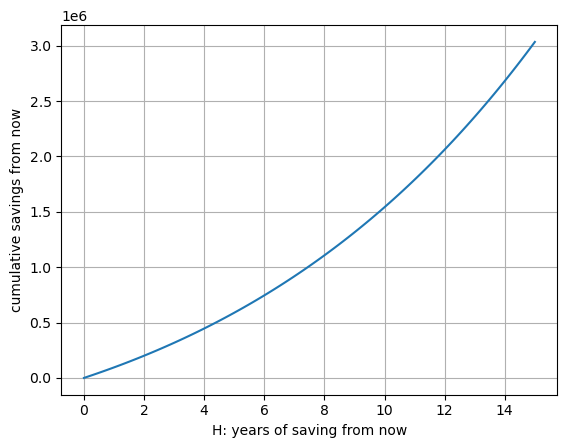
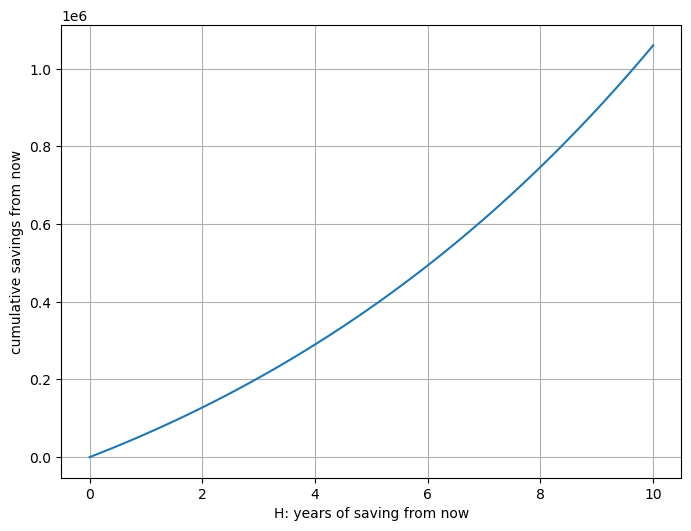
deploy: 4488496956ce40f71c227d4cffd5095ab1da6866

diff --git a/savings/app.js b/savings/app.js
@@ -1,4 +1,4 @@
-function savings(nYears, roi, savingsIncrease, annualSavings, savingsGoal) {
+function savings(nYears, roi, savingsIncrease, annualSavings) {
   const fraction = Math.pow((1 + savingsIncrease) / (1 + roi), nYears);
   return (
     (annualSavings * Math.pow(1 + roi, nYears) * (1 - fraction)) /
@@ -11,7 +11,7 @@ function savingsDerivative(nYears, roi, savingsIncrease, annualSavings) {
 }
 
 function cumulativeSpending(nYears, roi, extraSpending) {
-  return extraSpending * (1 + Math.pow(1 - roi, nYears + 1) / (1 - roi));
+    return extraSpending * Math.pow((1 + roi), nYears)
 }
 
 function totalRoot(
@@ -23,7 +23,7 @@ function totalRoot(
   extraSpending
 ) {
   return (
-    savings(nYears, roi, savingsIncrease, annualSavings, savingsGoal) -
+    savings(nYears, roi, savingsIncrease, annualSavings) -
     cumulativeSpending(nYears, roi, extraSpending) -
     savingsGoal
   );
@@ -47,8 +47,6 @@ function newtonRaphson(f, fDer, x0, nIter) {
   for (let i = 0; i < nIter; i++) {
     const y = f(x);
     const dy = fDer(x);
-    console.log(y);
-    console.log(dy);
     x = x - y / dy;
   }
   return x;
@@ -63,12 +61,94 @@ function readFields() {
     savingsGoal: readField("savings-goal"),
     roi: readField("roi"),
     annualSavings: readField("annual-savings"),
-    savingsIncrease: readField("savings-increase"),
+      savingsIncrease: readField("savings-increase"),
+      annualSpending: readField("annual-spending")
   };
 }
 
-function calculateYears() {
-  const nIter = 100;
+function savingsBreak(
+  nYears,
+  roi,
+  savingsIncrease,
+    annualSavings,
+    annualSpending,
+    durationBreak,
+    timeOfBreak,
+) {
+    const hFirst = timeOfBreak;
+    const hSecond = nYears - timeOfBreak - durationBreak;
+    const preBreakSavings = savings(hFirst, roi, savingsIncrease, annualSavings);
+    const costOfLiving = cumulativeSpending(hSecond, roi, annualSpending * durationBreak);
+    const passiveIncome = cumulativeSpending(hSecond + durationBreak, roi, preBreakSavings) - preBreakSavings;
+    const newAnnualSavings = cumulativeSpending(hFirst, savingsIncrease, annualSavings);
+    const postBreakSavings = savings(hSecond, roi, savingsIncrease, newAnnualSavings);
+    return preBreakSavings + passiveIncome - costOfLiving + postBreakSavings;
+}
+
+function savingsBreakDer(
+  nYears,
+  roi,
+  savingsIncrease,
+    annualSavings,
+    annualSpending,
+    durationBreak,
+    timeOfBreak,
+) {
+    const hFirst = timeOfBreak;
+    const hSecond = nYears - timeOfBreak - durationBreak;
+    const newAnnualSavings = cumulativeSpending(hFirst, savingsIncrease, annualSavings);
+    const costOfLivingDer = cumulativeSpending(hSecond, roi, annualSpending);
+    const postBreakSavingsDer = - savings(hSecond, roi, savingsIncrease, newAnnualSavings);
+    return costOfLivingDer + postBreakSavingsDer
+}
+
+function findBreakDuration(nYears, timeOfBreak, nIter) {
+    fields = readFields();
+    const f = (x) =>
+	  savings(nYears, fields.roi, fields.savingsIncrease, fields.annualSavings)
+	  - savingsBreak(
+	      nYears,
+	      fields.roi,
+	      fields.savingsIncrease,
+	      fields.annualSavings,
+	      fields.annualSpending,
+	      x,
+	      timeOfBreak,
+	  )
+	  - cumulativeSpending(nYears, fields.roi, 100)
+    const fDer = (x) =>
+	  - savingsBreakDer(
+	      nYears,
+	      fields.roi,
+	      fields.savingsIncrease,
+	      fields.annualSavings,
+	      fields.annualSpending,
+	      x,
+	      timeOfBreak,
+	  )
+    const x0 = 1/365;
+    const result = newtonRaphson(f, fDer, x0, nIter);
+    return result
+}
+
+function setupSlider(nYears) {
+    const timeSlider = document.getElementById("time-slider");
+    timeSlider.min = 0;
+    timeSlider.max = nYears;
+    timeSlider.value = nYears / 2;
+    const update = function() {
+	const timeSlider = document.getElementById("time-slider");
+	const timeOfBreak = parseInt(timeSlider.value)
+	const breakDuration = findBreakDuration(nYears, timeOfBreak, 100)
+	const breakDurationText = (breakDuration * 365).toFixed(2);
+	const resultString = `You may take a break of ${breakDurationText} days after ${timeSlider.value} years while still hitting your savings goal.`;
+	document.getElementById("result-break").textContent = `${resultString}`;
+    }
+    update()
+    timeSlider.oninput = update
+}
+
+function findSavingsDuration(nIter) {
   fields = readFields();
   const f = (x) =>
     totalRoot(
@@ -87,12 +167,10 @@ function calculateYears() {
       fields.annualSavings
     );
   const x0 = fields.savingsGoal / fields.annualSavings;
-  const result = newtonRaphson(f, fDer, x0, nIter);
-  const resultTextDuration = `It would take approximately ${result.toFixed(
-    2
-  )} years to hit your savings goal.`;
-  document.getElementById("result-duration").textContent = resultTextDuration;
+  return newtonRaphson(f, fDer, x0, nIter);
+}
 
+function findSavingsExtraDuration(nYears, extraSpending, nIter) {
   const fTotal = (x) =>
     totalRoot(
       x,
@@ -100,7 +178,7 @@ function calculateYears() {
       fields.savingsIncrease,
       fields.annualSavings,
       fields.savingsGoal,
-      100
+      extraSpending
     );
   const fTotalDer = (x) =>
     totalDerivative(
@@ -108,13 +186,26 @@ function calculateYears() {
       fields.roi,
       fields.savingsIncrease,
       fields.annualSavings,
-      100
+      extraSpending
     );
+  return newtonRaphson(fTotal, fTotalDer, nYears, nIter);
+}
 
-  const resultEpsilon = newtonRaphson(fTotal, fTotalDer, result, nIter);
-  const resultDays = ((resultEpsilon - result) * 365).toFixed(2);
-  const resultTextMoney = `Spending 100 of your monetary currency right now will cost you approximately ${resultDays} days.`;
-  console.log(resultEpsilon);
-  console.log(fTotal(8));
-  document.getElementById("result-money").textContent = resultTextMoney;
+function calculate() {
+    const nIter = 100;
+
+    const nYears = findSavingsDuration(nIter)
+    const nYearsText = `It will take approximately ${nYears.toFixed(
+      2
+    )} years to hit your savings goal.`;
+    document.getElementById("result-duration").textContent = nYearsText;
+
+    const nYearsExtra = findSavingsExtraDuration(nYears, 100, nIter)
+    const nDaysExtra = ((nYearsExtra - nYears) * 365).toFixed(2);
+    const nDaysExtraText = `Spending an extra 100 of your monetary currency right now will delay reaching your savings goal, i.e. 'cost you', approximately ${nDaysExtra} days.`;
+    document.getElementById("result-money").textContent = nDaysExtraText;
+
+    setupSlider(nYears)
+
+    document.getElementById("results").hidden = false;
 }

diff --git a/savings/index.html b/savings/index.html
@@ -7,7 +7,7 @@
       .outer {
         padding: 50px;
         margin: 20px;
-        border: 10px solid green;
+        border: 7px solid green;
       }
       .inner {
         padding: 10px;
@@ -15,6 +15,11 @@
       }
       .explanation {
         color: grey;
+      }
+      .result {
+	  padding: 10px;
+	  margin: 10px 0 10px 0;
+	  border: 7px solid green;
       }
     </style>
   </head>
@@ -27,16 +32,16 @@
         <label class="explanation">
           Representing remaining savings to be made, i.e. savings up to now are
           disregarded. A typical value could be annual spending divided by
-	  annual return on investment (roi).
+	  annual return on investment (roi) minus current savings.
         </label>
       </div>
       <div class="inner">
-        <label for="annual_savings">Annual savings:</label>
+        <label for="annual-savings">Annual savings:</label>
         <input type="number" id="annual-savings" value="60000" /><br />
         <label class="explanation">In the next year</label>
       </div>
       <div class="inner">
-        <label for="savings_increase">Annual savings increase:</label>
+        <label for="savings-increase">Annual savings increase:</label>
         <input type="number" id="savings-increase" value=".08" /><br />
         <label class="explanation">
 	  Relative to previous year, assumed to be constant for all coming
@@ -52,13 +57,35 @@
         </label>
       </div>
       <div class="inner">
-        <button onclick="calculateYears()">Calculate</button><br /><br />
+        <label for="annual-spending">Annual spending:</label>
+        <input type="number" id="annual-spending" value="50000" /> <br />
+        <label class="explanation">
+          Under the assumption that this doesn't change over the years.
+        </label>
       </div>
       <div class="inner">
-        <p id="result-duration"></p>
-        <p id="result-money"></p>
+        <button onclick="calculate()">Calculate</button><br /><br />
       </div>
     </div>
+    <div id="results" class="inner" hidden>
+      <div class="inner">
+	<div class="result">
+          <p id="result-duration"></p>
+	</div>
+	<div class="result">
+          <p id="result-money"></p>
+	</div>
+	<div class="result">
+	Let's assume you find 100 of your currency on the street right now. For how long
+	can you take a break from earning money?
+        <div class="slidecontainer">
+	  <input id="time-slider" type="range" min="1" max="100" value="50" class="slider">
+        </div>
+        <p id="result-break"></p>
+	</div>
+      </div>
+    </div>
+          </div>
     <script src="https://cdnjs.cloudflare.com/ajax/libs/mathjs/11.8.0/math.js"></script>
     <script src="app.js"></script>
   </body>
